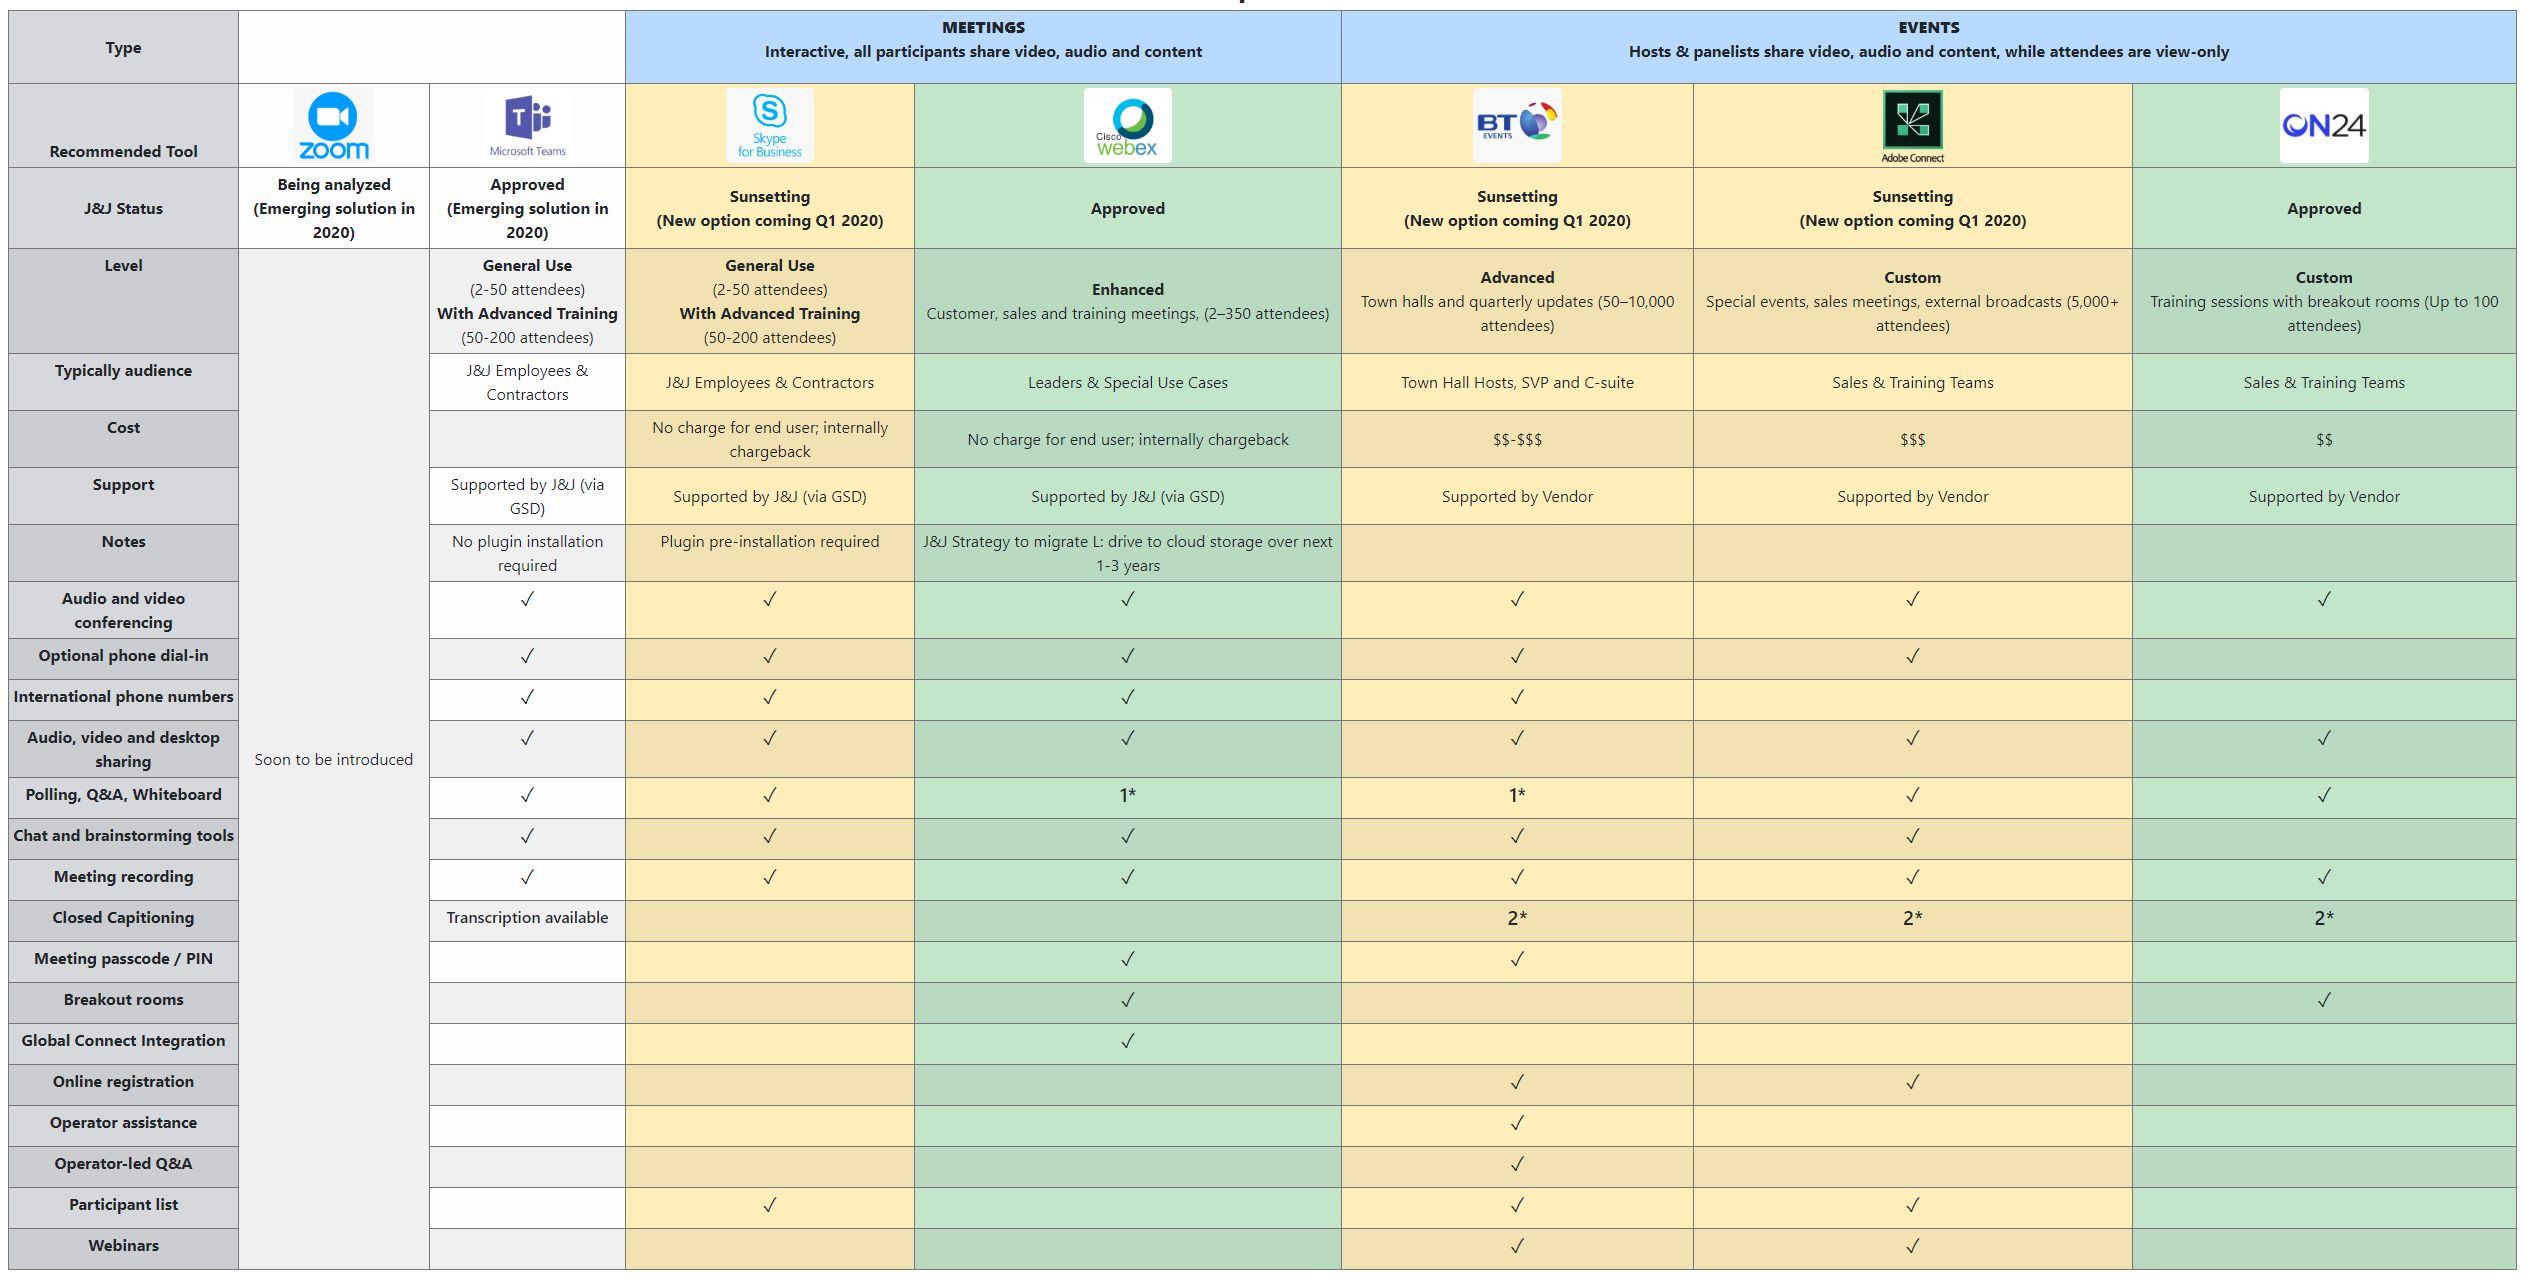
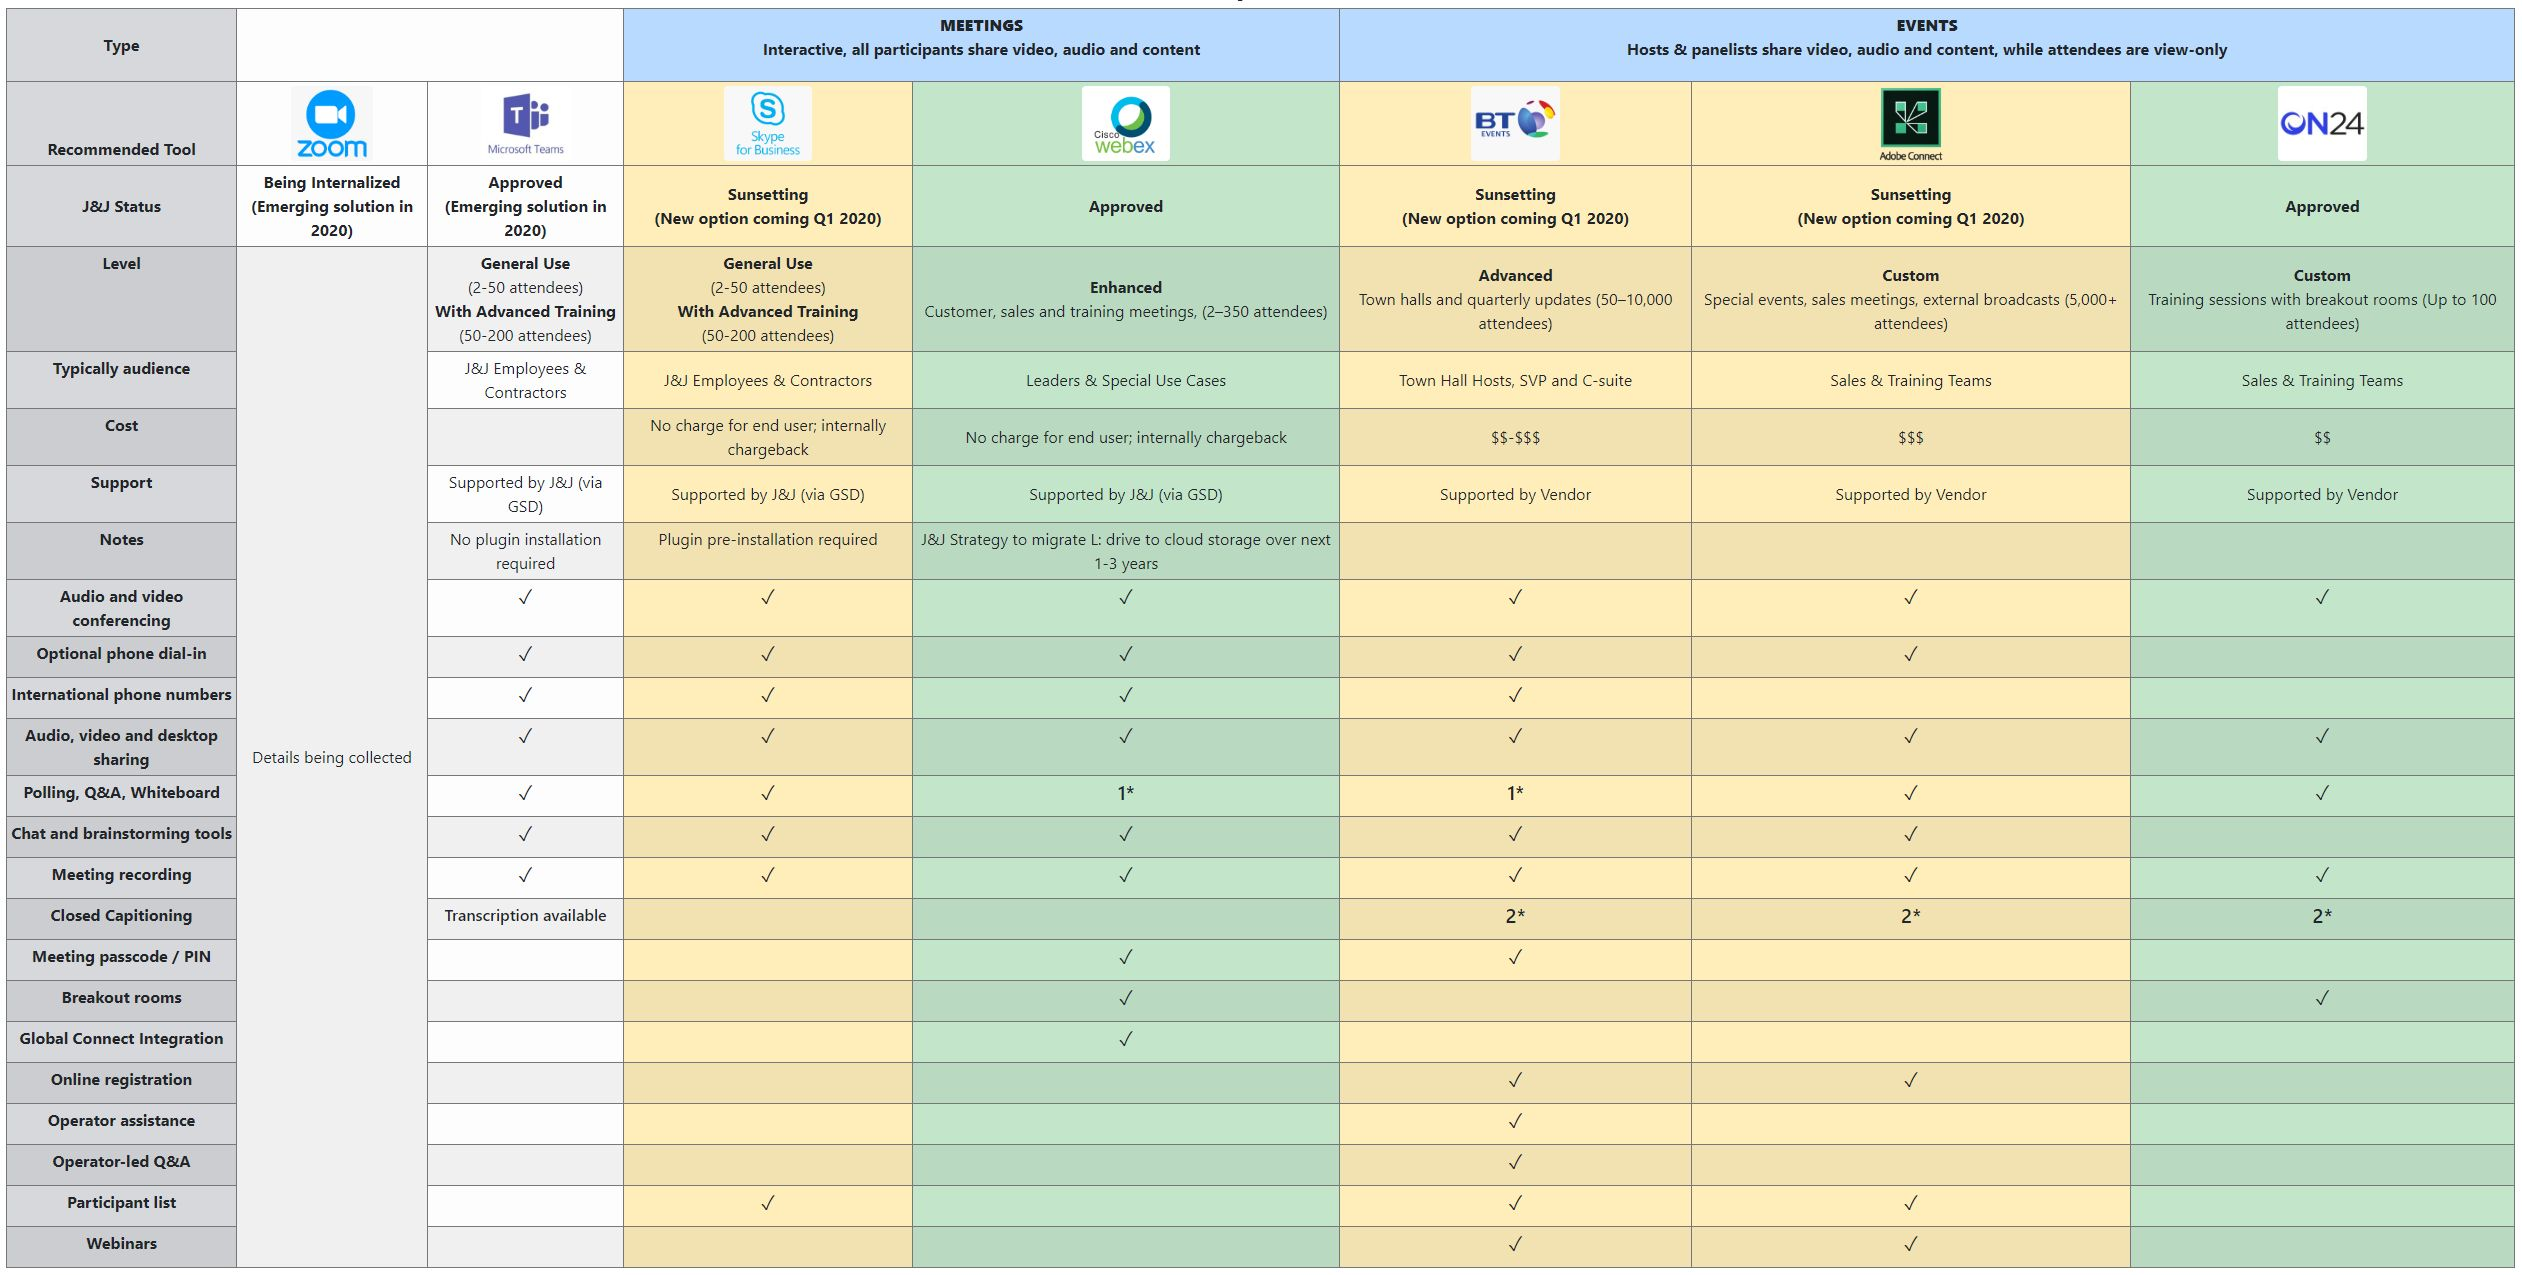
asdasd

diff --git a/Scenarios/VirtualMeetings/toolkit_vm.html b/Scenarios/VirtualMeetings/toolkit_vm.html
@@ -66,7 +66,7 @@
                     </tr>
                     <tr class="text-center">
                         <th scope="col" class="align-middle">J&amp;J Status</th>
-                        <th scope="col" class="align-middle">Being analyzed <br> (Emerging solution in 2020)</th>
+                        <th scope="col" class="align-middle">Being Internalized <br> (Emerging solution in 2020)</th>
                         <th scope="col" class="align-middle">Approved <br> (Emerging solution in 2020) </th>
                         <th scope="col" class="align-middle">Sunsetting <br> (New option coming Q1 2020) </th>
                         <th scope="col" class="align-middle">Approved</th>
@@ -100,7 +100,7 @@
                 <tbody>
                     <tr class="text-center">
                         <th scope="row" class="text-center">Level</th>
-                        <td class="align-middle" rowspan="22">Soon to be introduced</td>
+                        <td class="align-middle" rowspan="22">Details being collected</td>
                         <td class="align-middle"><b>General Use</b><br> (2-50 attendees) <br><b>With Advanced Training 
 </b><br> (50-200 attendees)</td>
                         <td class="align-middle"><b>General Use</b><br> (2-50 attendees) <br><b>With Advanced Training 
